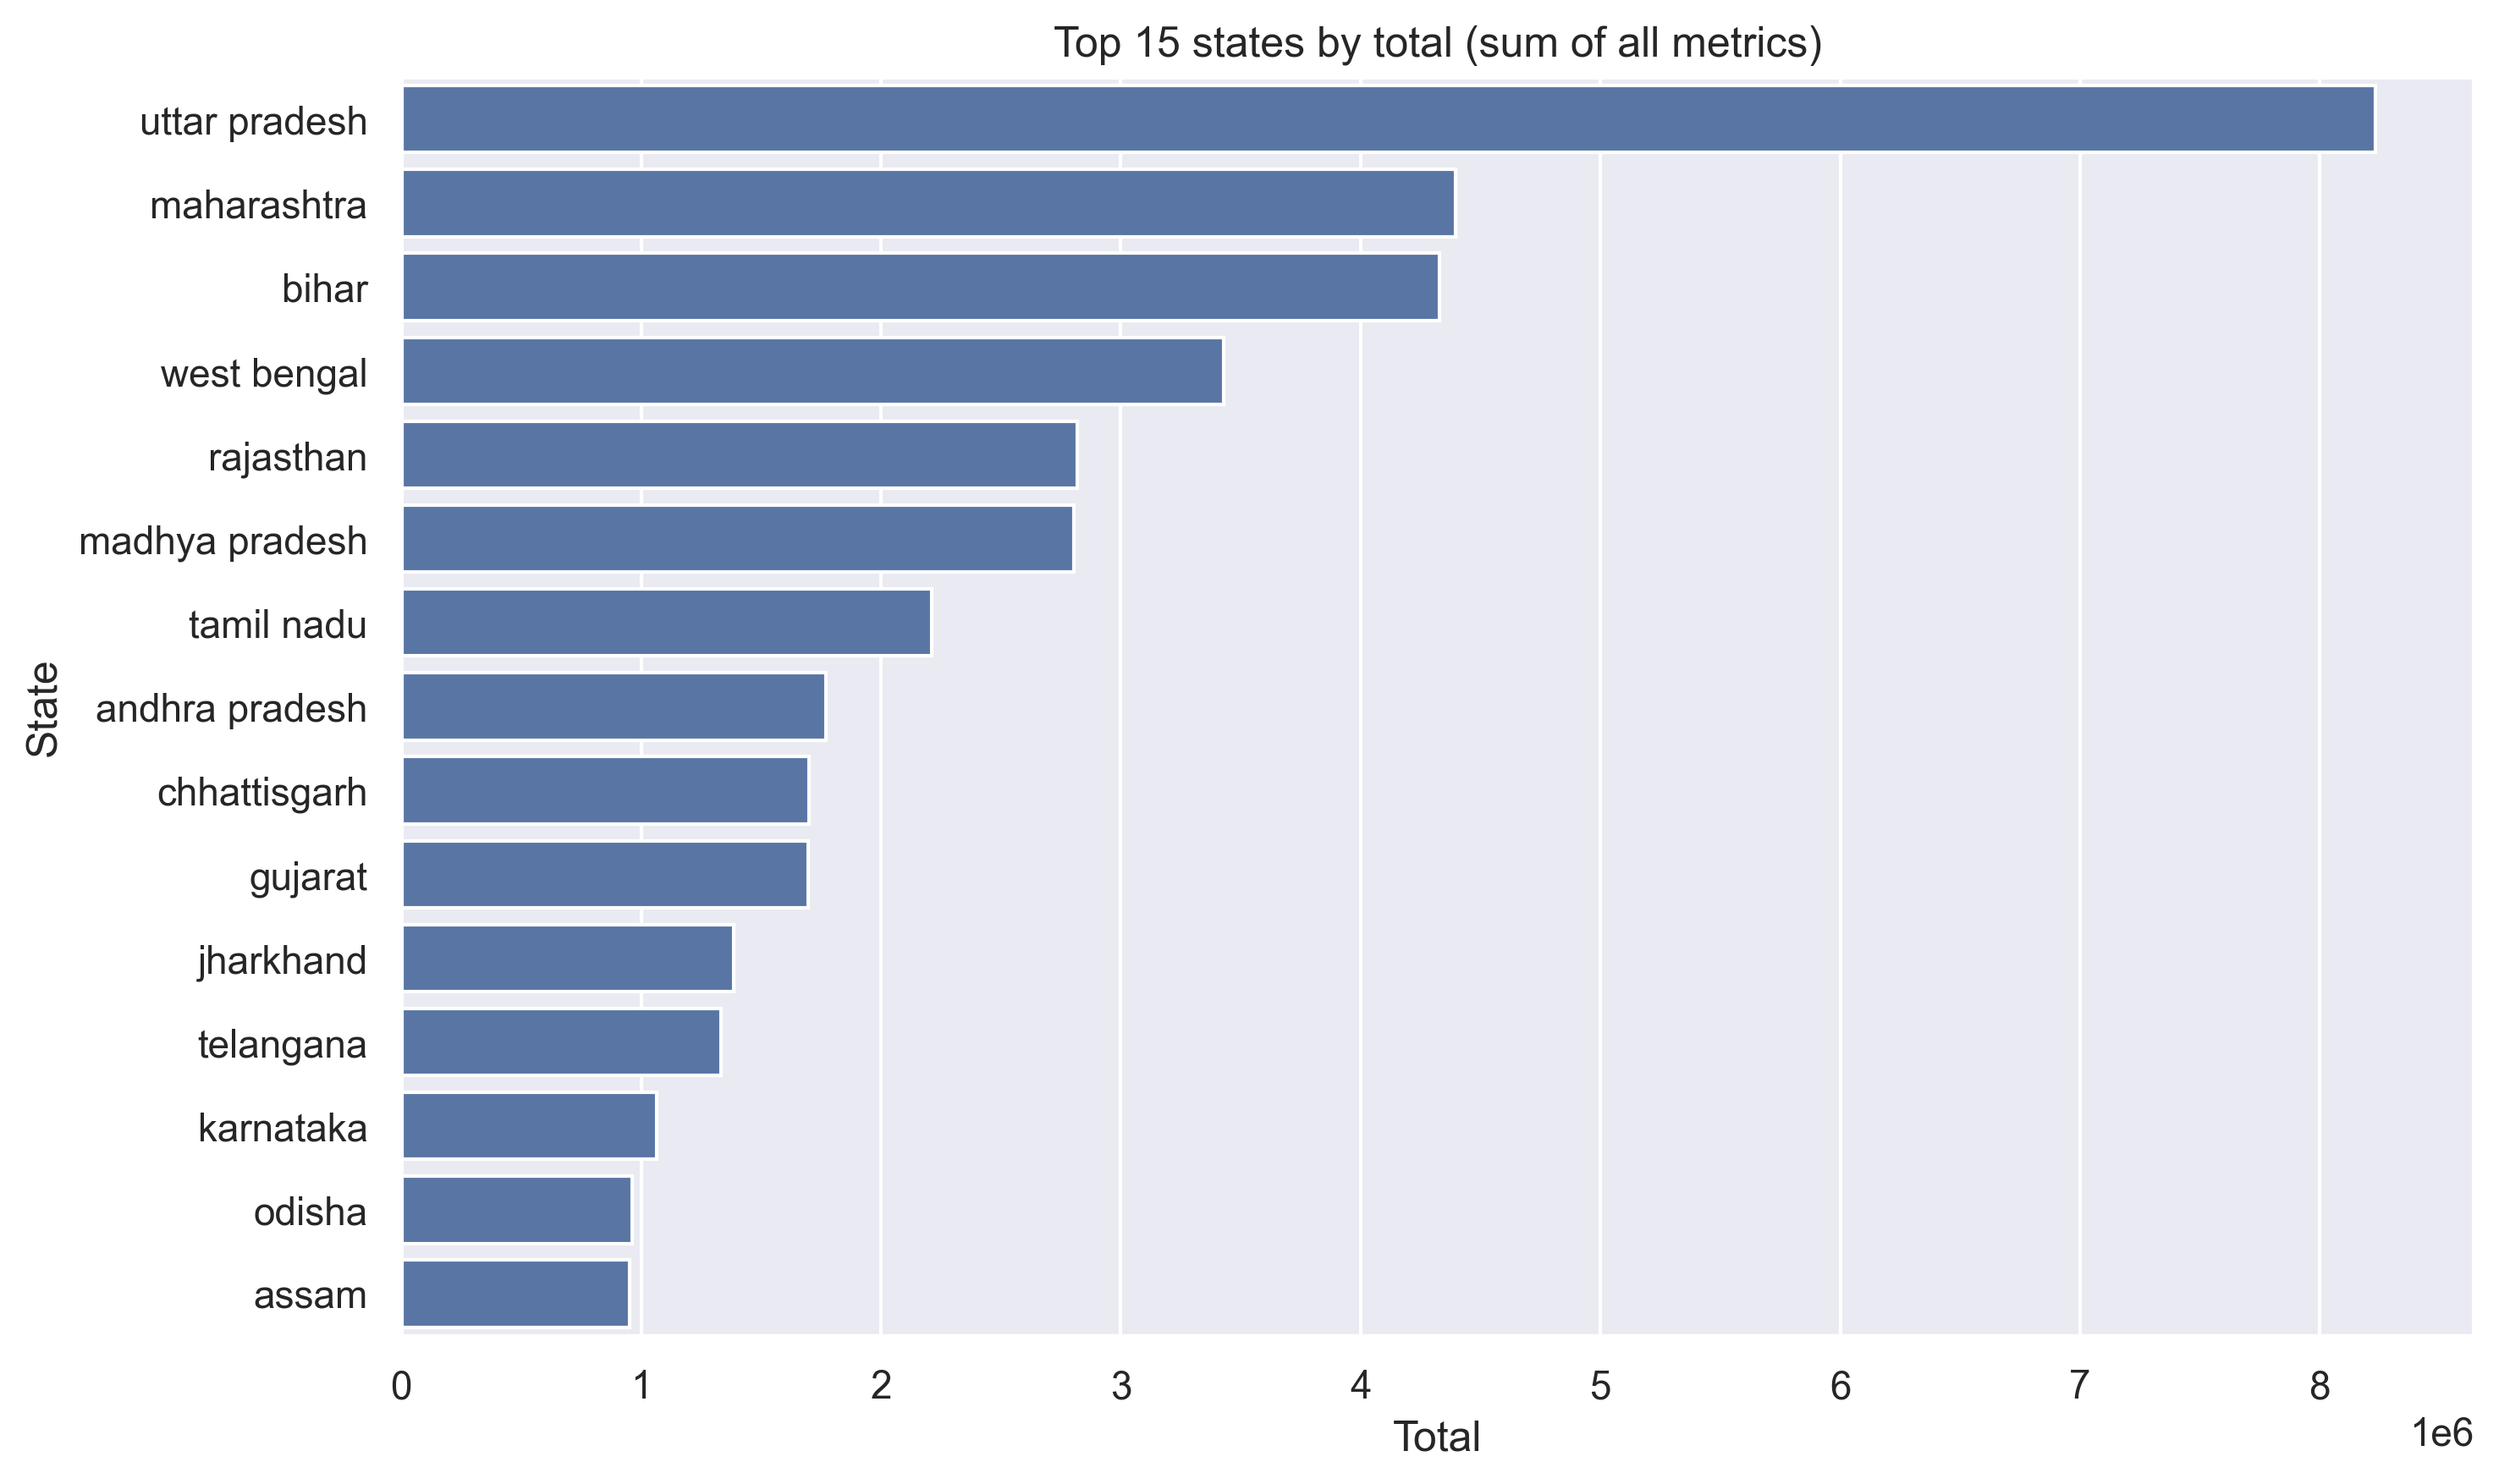
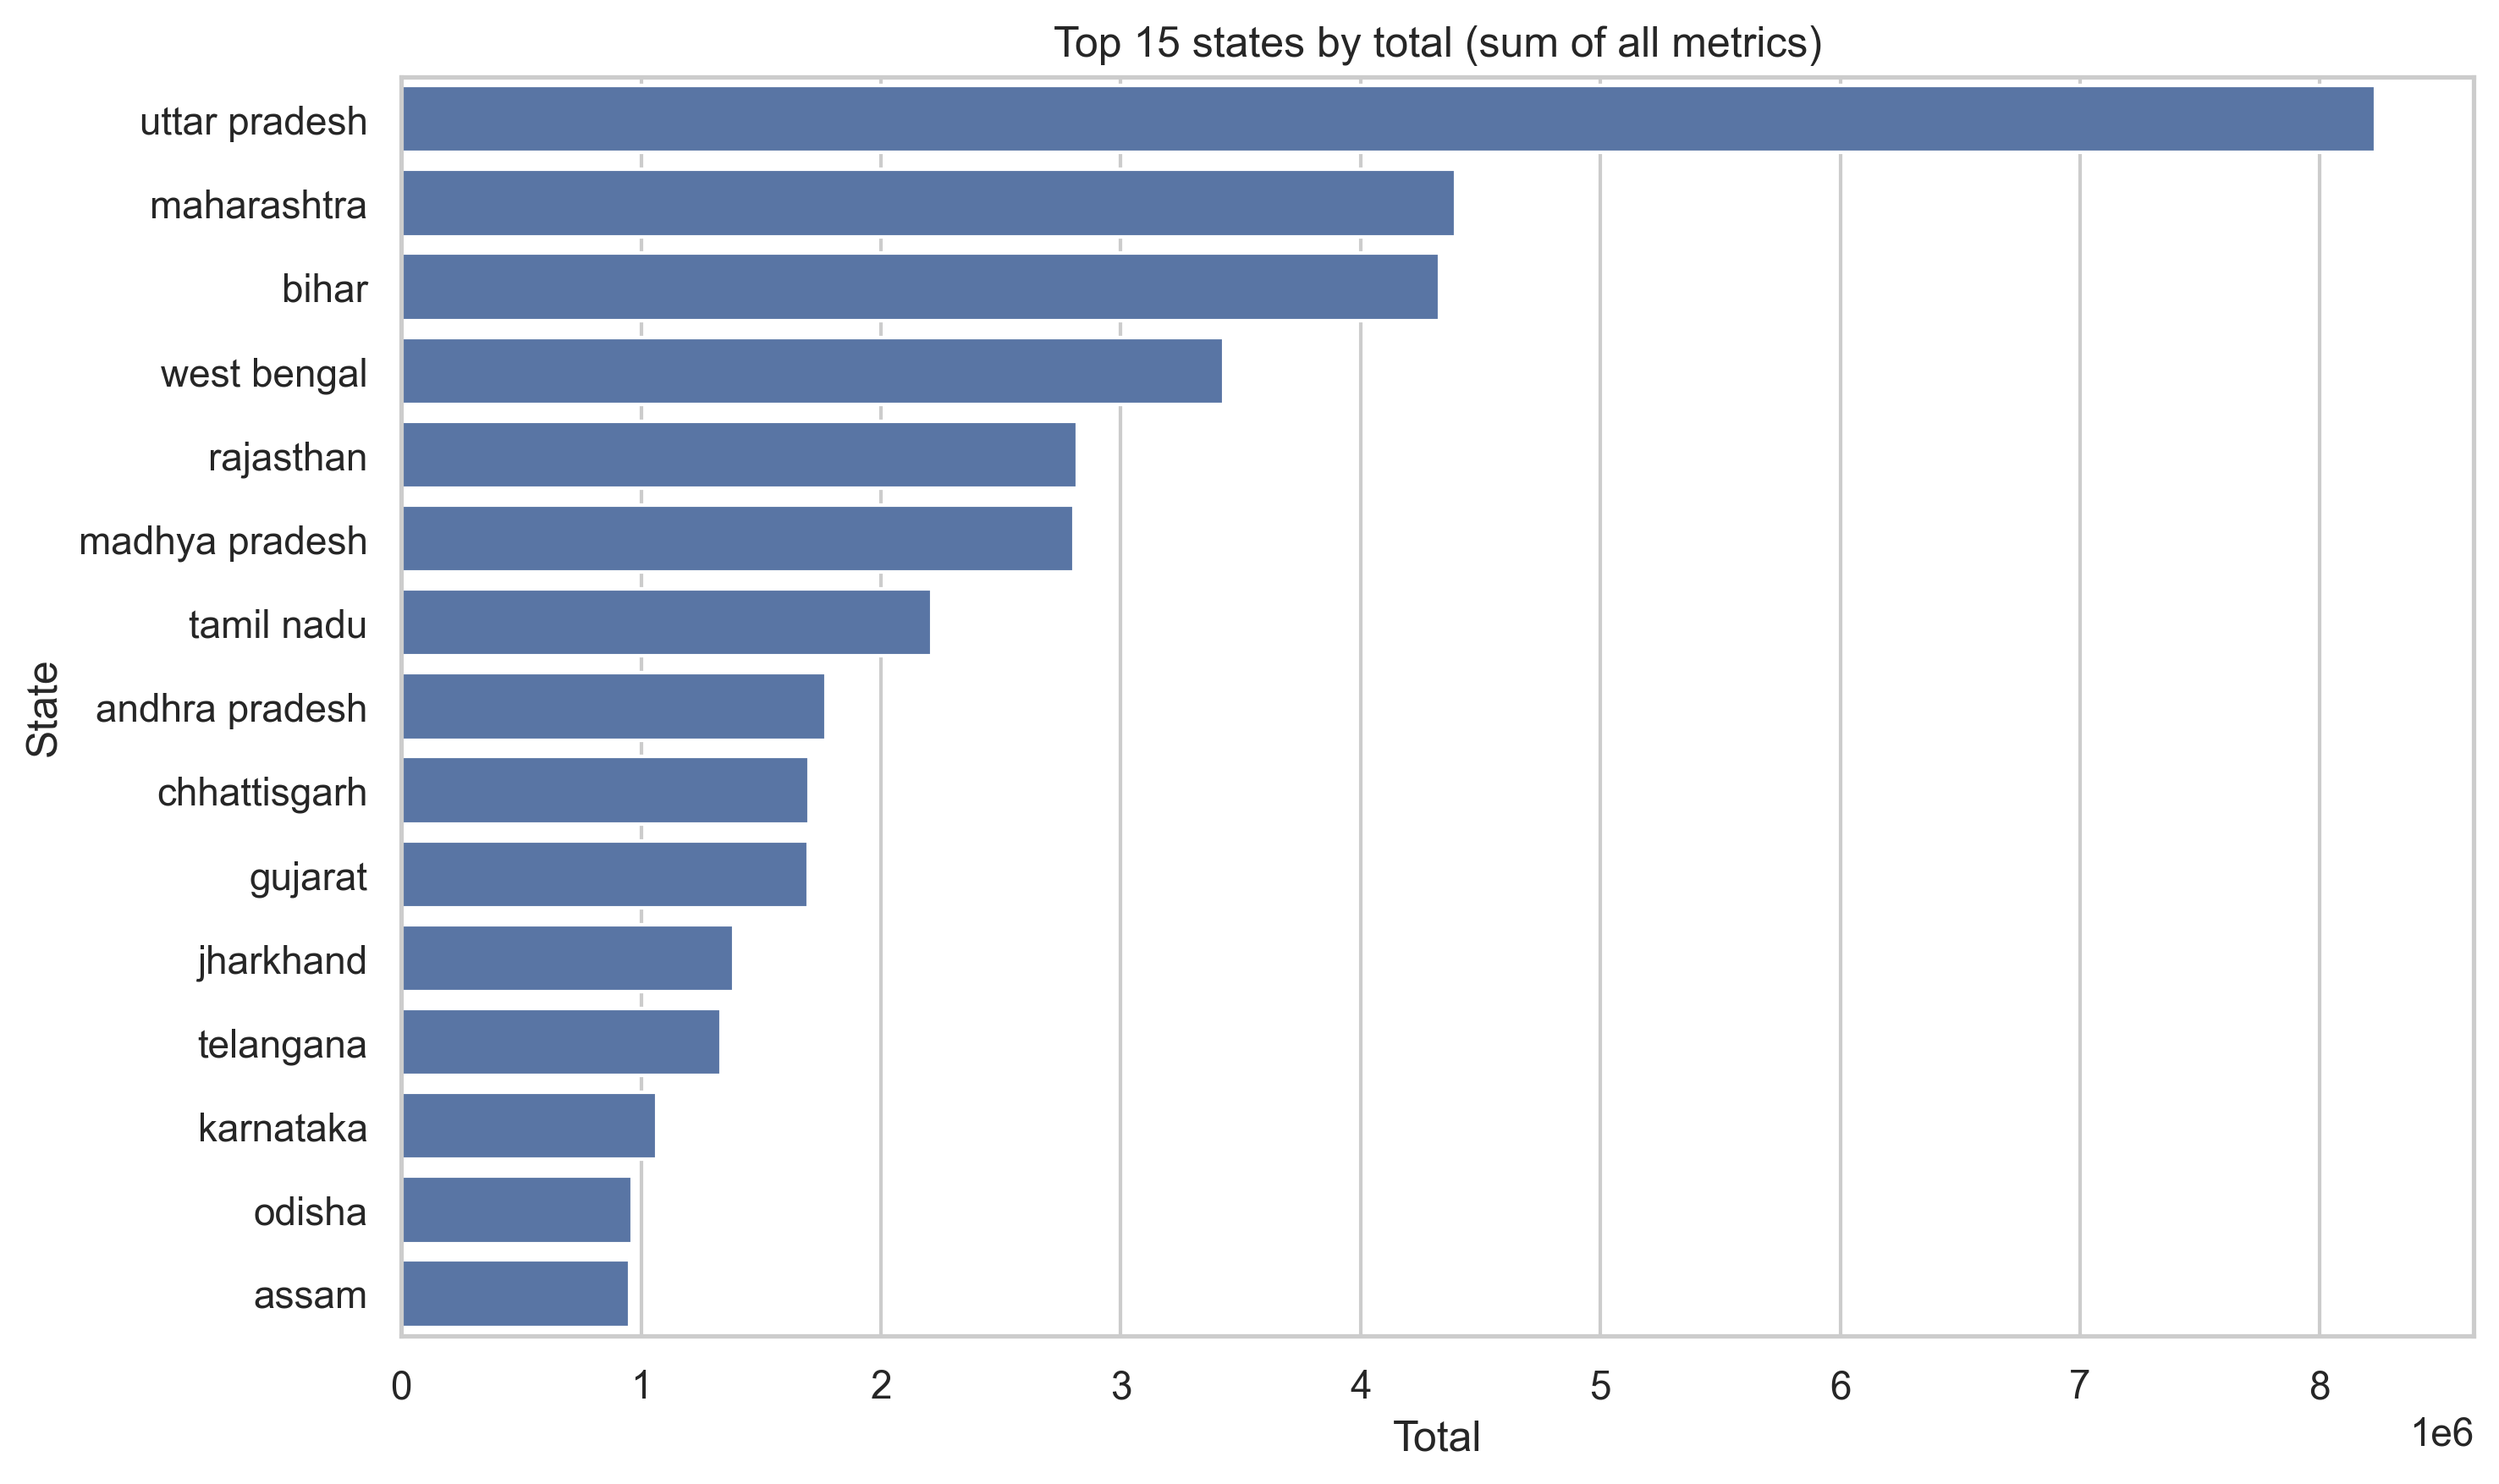
drafting 1

diff --git a/code/analysis_procedure/demo_analysis/demo_district.py b/code/analysis_procedure/demo_analysis/demo_district.py
@@ -185,6 +185,110 @@ plt.savefig(f'{output_dir}/08_month_agegroup_heatmap.png', dpi=300, bbox_inches=
 plt.show()
 plt.close()
 
+# Analysis 2.0
+
+# Create comprehensive district-wise analysis tables and visuals (no reload; use work_df already in memory)
+
+
+# Parse month into a sortable date (assumes format like 'March 2025')
+analysis_df["month_dt"] = pd.to_datetime(analysis_df["month"], format="%B %Y", errors="coerce")
+analysis_df = analysis_df.sort_values(["month_dt", "state_norm", "district_resolved"]).reset_index(drop=True)
+
+# Recompute totals
+total_vals = analysis_df["demo_age_5_17"].fillna(0) + analysis_df["demo_age_17_"].fillna(0)
+analysis_df["total_demo"] = total_vals
+analysis_df["share_5_17"] = analysis_df["demo_age_5_17"] / analysis_df["total_demo"].replace(0, np.nan)
+
+# District-level summary
+all_district_summary_df = (
+    analysis_df.groupby(["state_norm", "district_resolved"], as_index=False)
+    .agg(
+        months_count=("month", "nunique"),
+        total_demo=("total_demo", "sum"),
+        total_5_17=("demo_age_5_17", "sum"),
+        total_17_plus=("demo_age_17_", "sum"),
+        avg_monthly_total=("total_demo", "mean"),
+        median_monthly_total=("total_demo", "median"),
+        min_monthly_total=("total_demo", "min"),
+        max_monthly_total=("total_demo", "max"),
+        std_monthly_total=("total_demo", "std")
+    )
+)
+
+all_district_summary_df["share_5_17_pct"] = (all_district_summary_df["total_5_17"] / all_district_summary_df["total_demo"].replace(0, np.nan) * 100).round(2)
+all_district_summary_df["share_17_plus_pct"] = (all_district_summary_df["total_17_plus"] / all_district_summary_df["total_demo"].replace(0, np.nan) * 100).round(2)
+all_district_summary_df["cv_monthly_total"] = (all_district_summary_df["std_monthly_total"] / all_district_summary_df["avg_monthly_total"].replace(0, np.nan)).round(3)
+
+# Show a quick peek at the full summary
+print(all_district_summary_df.sort_values("total_demo", ascending=False).head(10))
+
+
+
+# Visual 2: Stacked age-group composition for top 15 districts
+viz_top15_df = all_district_summary_df.sort_values("total_demo", ascending=False).head(15).copy()
+viz_top15_df["district_label"] = viz_top15_df["district_resolved"] + " (" + viz_top15_df["state_norm"] + ")"
+comp_long_df = viz_top15_df[["district_label", "total_5_17", "total_17_plus"]].melt(
+    id_vars=["district_label"], var_name="age_group", value_name="count"
+)
+
+plt.figure(figsize=(11, 7))
+sns.barplot(data=comp_long_df, y="district_label", x="count", hue="age_group")
+plt.title("Age-group composition (top 15 districts)")
+plt.xlabel("Total count")
+plt.ylabel("")
+plt.tight_layout()
+plt.savefig(f'{output_dir}/07_age_composition_top15_districts.png', dpi=300, bbox_inches='tight')
+plt.show()
+
+
+# Visual 4: Trend lines for top 6 districts
+trend_keys = all_district_summary_df.sort_values("total_demo", ascending=False).head(6)[["state_norm","district_resolved"]]
+trend_df = analysis_df.merge(trend_keys, on=["state_norm","district_resolved"], how="inner")
+trend_df = trend_df.groupby(["month_dt","state_norm","district_resolved"], as_index=False)["total_demo"].sum()
+trend_df["district_label"] = trend_df["district_resolved"] + " (" + trend_df["state_norm"] + ")"
+trend_df = trend_df.sort_values("month_dt")
+
+plt.figure(figsize=(11, 5))
+sns.lineplot(data=trend_df, x="month_dt", y="total_demo", hue="district_label", marker="o")
+plt.title("Monthly trend for top 6 districts")
+plt.xlabel("Month")
+plt.ylabel("Total demo")
+plt.tight_layout()
+plt.savefig(f'{output_dir}/09_trend_top6_districts.png', dpi=300, bbox_inches='tight')
+plt.show()
+
+# analysis 3.0
+
+
+viz_top20b_df = all_district_summary_df.sort_values("total_demo", ascending=False).head(20).copy()
+viz_top20b_df["district_label"] = viz_top20b_df["district_resolved"]
+
+state_order_vals = viz_top20b_df["state_norm"].value_counts().index.tolist()
+state_palette_vals = sns.color_palette("tab10", n_colors=max(3, len(state_order_vals)))
+state_color_map = dict(zip(state_order_vals, state_palette_vals))
+
+viz_top20b_df["state_color"] = viz_top20b_df["state_norm"].map(state_color_map)
+
+# Plot
+plt.figure(figsize=(12, 7))
+plt.barh(viz_top20b_df["district_label"], viz_top20b_df["total_demo"], color=viz_top20b_df["state_color"])
+plt.gca().invert_yaxis()
+plt.title("Top 20 districts by total demo (colored by state)")
+plt.xlabel("Total demo")
+plt.ylabel("")
+
+# Legend on the side
+handles_vals = []
+labels_vals = []
+for state_name in state_order_vals:
+    handles_vals.append(plt.Line2D([0], [0], marker='s', color=state_color_map[state_name], linestyle='', markersize=10))
+    labels_vals.append(state_name)
+
+plt.legend(handles_vals, labels_vals, title="State", bbox_to_anchor=(1.02, 1), loc="upper left", borderaxespad=0)
+plt.tight_layout()
+plt.savefig(f'{output_dir}/10_top20_districts_by_state.png', dpi=300, bbox_inches='tight')
+plt.show()
+
 # Print key ranked tables (head only as requested)
 print(month_rank_df[["month","total_sum","month_share_5_17","states","districts"]].head(9))
 print(state_top_total_df[["state_norm","total_sum","share_5_17","districts","months"]].head(10))

diff --git a/code/analysis_procedure/demo_analysis/demo1.py b/code/analysis_procedure/demo_analysis/demo1.py
@@ -39,11 +39,15 @@ if len(metric_cols) > 0:
     plt.savefig('output/demographic/state_time/01_monthly_total_' + metric_0 + '.png', dpi=300, bbox_inches='tight')
     plt.show()
 
-sns.set_theme(style='darkgrid')
+sns.set_theme(style='whitegrid')
 
 metric_cols = [c for c in df_month_state.columns if c not in ['month', 'state_norm', 'month_dt']]
 
 df_month_state['total_all_metrics'] = df_month_state[metric_cols].sum(axis=1)
+
+# Helper aggregates
+state_totals = df_month_state.groupby('state_norm')[metric_cols + ['total_all_metrics']].sum().sort_values('total_all_metrics', ascending=False)
+month_totals = df_month_state.groupby('month_dt')[metric_cols + ['total_all_metrics']].sum().sort_index()
 
 # 1) Data coverage: months and states
 months_sorted = df_month_state['month_dt'].dropna().sort_values().unique()
@@ -52,10 +56,6 @@ print(len(months_sorted))
 print(months_sorted[:5])
 print(len(states_sorted))
 print(states_sorted[:10])
-
-# Helper aggregates
-state_totals = df_month_state.groupby('state_norm')[metric_cols + ['total_all_metrics']].sum().sort_values('total_all_metrics', ascending=False)
-month_totals = df_month_state.groupby('month_dt')[metric_cols + ['total_all_metrics']].sum().sort_index()
 
 print(state_totals.head(10))
 print(month_totals.head(5))
@@ -145,21 +145,32 @@ if len(metric_cols) >= 2:
     plt.show()
 
 # 9) State rank stability by month (top 10 states each month)
+# Get the top 10 states overall
+top_10_states = state_totals.head(10).index.tolist()
+
 rank_rows = []
 for m_val in sorted(df_month_state['month_dt'].dropna().unique().tolist()):
     temp = df_month_state[df_month_state['month_dt'] == m_val].groupby('state_norm')['total_all_metrics'].sum().sort_values(ascending=False)
-    top10 = temp.head(10)
-    for rank_idx, (st_val, tot_val) in enumerate(top10.items(), start=1):
+    # Filter to only top 10 states overall
+    temp = temp[temp.index.isin(top_10_states)]
+    for rank_idx, (st_val, tot_val) in enumerate(temp.items(), start=1):
         rank_rows.append({'month_dt': m_val, 'state_norm': st_val, 'rank': rank_idx, 'total': tot_val})
 
 df_ranks = pd.DataFrame(rank_rows)
-plt.figure(figsize=(10,5))
-sns.lineplot(data=df_ranks, x='month_dt', y='rank', hue='state_norm', marker='o', palette='tab10')
+
+# Create a vibrant custom color palette with light and dark mix
+vibrant_colors = ["#130101", "#05108D", "#F7FB09", "#055D0C", "#590353", 
+                  '#3498DB', "#05E01E", '#E74C3C', "#8B0D0D", "#F29500"]
+
+plt.figure(figsize=(14,6))
+sns.lineplot(data=df_ranks, x='month_dt', y='rank', hue='state_norm', marker='o', 
+             palette=vibrant_colors, linewidth=3, markersize=8)
 plt.gca().invert_yaxis()
-plt.title('Top 10 states rank over time (lower is better)')
-plt.xlabel('Month')
-plt.ylabel('Rank')
-plt.legend(bbox_to_anchor=(1.02, 1), loc='upper left')
+plt.title('Top 10 states rank over time (lower is better)', fontsize=14, fontweight='bold')
+plt.xlabel('Month', fontsize=12)
+plt.ylabel('Rank', fontsize=12)
+plt.legend(bbox_to_anchor=(1.02, 1), loc='upper left', fontsize=10, title='State', title_fontsize=11)
+plt.grid(True, alpha=0.3)
 plt.tight_layout()
 plt.savefig('output/demographic/state_time/09_state_rank_stability.png', dpi=300, bbox_inches='tight')
 plt.show()

diff --git a/code/analysis_procedure/bio_analysis/bio_district.py b/code/analysis_procedure/bio_analysis/bio_district.py
@@ -107,6 +107,7 @@ heat_states = state_tot.head(12).index
 heat_piv = heat_df[heat_df['state_norm'].isin(heat_states)].groupby(['state_norm','month_dt'])['total'].sum().reset_index()
 heat_piv = heat_piv.pivot(index='state_norm', columns='month_dt', values='total').fillna(0)
 heat_piv = heat_piv.loc[heat_states]
+heat_piv.columns = heat_piv.columns.strftime('%B')
 
 plt.figure(figsize=(12,6))
 sns.heatmap(heat_piv, cmap='YlGnBu', linewidths=0.2)
